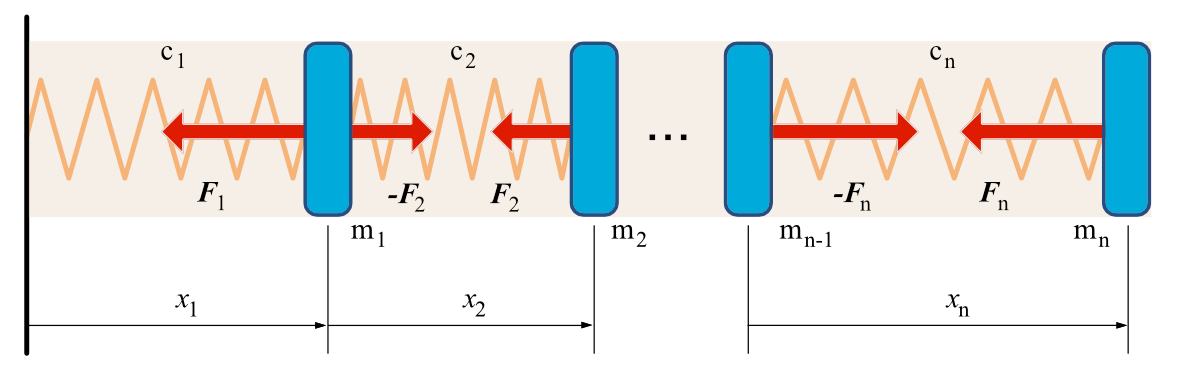
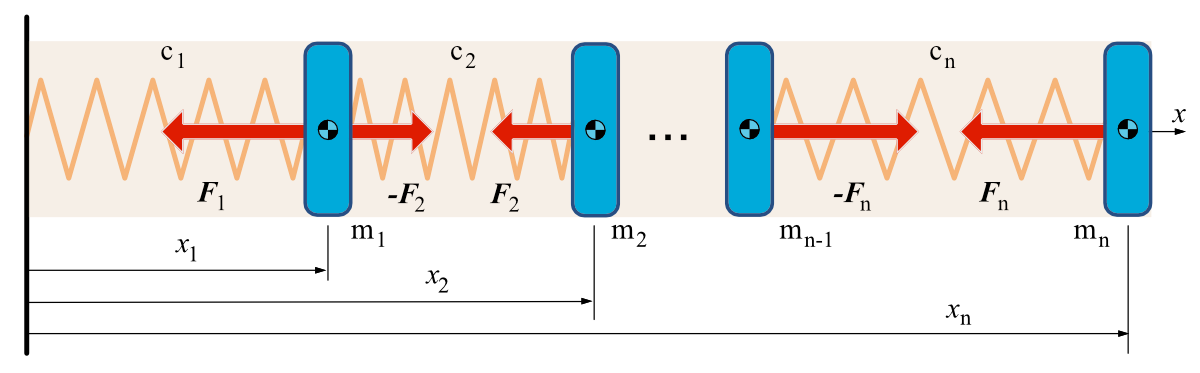
Rod

diff --git a/pages/matlab/rod.md b/pages/matlab/rod.md
@@ -23,19 +23,25 @@ $$
 Уравнение движения массы $$i$$ имеет вид (в проекции на горизонтальную ось $$x$$ )
 
 $$
-  m_i \sum_{k=1}^{i} \ddot{x}_k = -F_i + F_{i+1}, \quad i = 1, \ldots, n-1
+  m_i \ddot{x}_i = -F_i + F_{i+1}, \quad i = 1, \ldots, n-1
 $$
 
 Для последней массы ($$i=n$$)
 
 $$
-  m_n \sum_{k=1}^{n} \ddot{x}_k = -F_n
+  m_n \ddot{x}_n = -F_n
 $$
 
 Силы, действующие на массы вычисляются следующим образом
 
 $$
-  F_k = c_k (x_k - l_0), \quad k=1,\ldots,n
+  F_k = c_k (x_k - x_{k-1} - l_0), \quad k=2,\ldots,n
+$$
+
+Для первой точки
+
+$$
+  F_1 = c_1 (x_1 - l_0)
 $$
 
 где $$l_0$$ - свободная длина пружины
@@ -46,7 +52,7 @@ $$
 
 ![Image](spring.png)
 
-
+### Программа (файл-скрипт)
 
 ~~~matlab
 % Модуль Юнга Н/м2
@@ -125,7 +131,7 @@ end
 close(v);
 ~~~
 
-Файл-функция правых частей дифференциальных уравнений движения системы материальных точек
+### Файл-функция правых частей дифференциальных уравнений движения системы материальных точек
 
 ~~~matlab
 function dq = dqdt(t, q, p)
@@ -133,14 +139,26 @@ function dq = dqdt(t, q, p)
 n  = size(q,1)/2;
 x  = q(1:n);
 
+% Расстояние между точками для определения деформаций пружин
 % x1 (x2-x1) (x3-x2) (x4-x3) ... (xn - x_n-1)
 xdif = [x(1);diff(x)];
-% x1-L (x2-x1)-L (x3-x2)-L (x4-x3)-L ... (xn - x_n-1)-L
+
+% Из расстояний между точками вычитается свободная длина пружины
+% определяется деформация
+% x1-l0 (x2-x1)-l0 (x3-x2)-l0 (x4-x3)-l0 ... (xn - x_n-1)-l0
 dx   = xdif - repmat(p.L,n,1);
-%
+
+% По деформации определяется сила
+% F = [-(x1-l0)*c -(x2-x1-l0)*c ...]
 F    = -dx*p.c;
+% На все точки, кроме последей, действуют еще силы со стороны соседней пружины справа
+% с противоположным знаком. На последнюю точку действует только одна пружина,
+% поэтому к действующей на нее силе добавляется ноль
 F    = F - [F(2:end); 0];
+
+% Ускорения точек
 a    = F/p.m;
+% Результат работы функции -- скорости и ускорения точек
 dq   = [q(n+1:end);a];
 
 end
